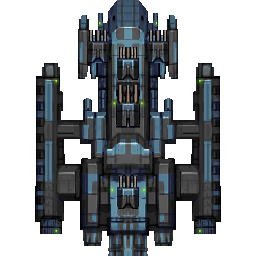
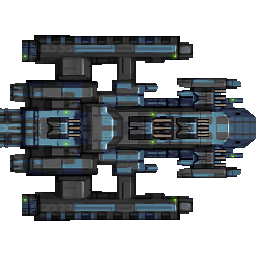
Rotated ship sprites and did more work on the Sprite component

diff --git a/SFMLSpaceGame/InitialGameState.cpp b/SFMLSpaceGame/InitialGameState.cpp
@@ -12,6 +12,7 @@
 #include "Background.h"
 #include "ParallaxMovement.h"
 #include "SmoothCameraFollow.h"
+#include "Sprite.h"
 #include "resource.h"
 
 void InitialGameState::Init()
@@ -20,7 +21,8 @@ void InitialGameState::Init()
 
 	auto pos = ent->AddComponent<Position>();
 	ent->AddComponent<Rotation>();
-	auto rp = ent->AddComponent<RectPrimitive, float, float>(100.f, 50.f);
+	auto sp = ent->AddComponent<Sprite, ResourceID>(SHIP_HUMAN_FIGHTER);
+	//auto rp = ent->AddComponent<RectPrimitive, float, float>(100.f, 50.f);
 	auto phys = ent->AddComponent<Physics, b2BodyType, float>(b2_dynamicBody, 1.f);
 	ent->AddComponent<DirectionalKeyboardInput>();
 	ent->AddComponent<ShipThrusters, ShipThrust, ShipThrust>(ShipThrust(.01f, .001f, .005f), ShipThrust(5.f, 3.f, 3.f));
@@ -28,13 +30,15 @@ void InitialGameState::Init()
 	ent->AddComponent<RotateToFaceMouse, float, float>(.1f, 2.f);
 	ent->AddComponent<SmoothCameraFollow>();
 
-	phys.AddShape(rp.GetShape());
+	auto spriteBox = sp.GetPixelLocalBounds();
+	sf::RectangleShape shape = sf::RectangleShape(sf::Vector2f(spriteBox.width, spriteBox.height));
+	phys.AddShape(shape, .2f);
 	phys.SetPosition(b2Vec2(5, 5));
 
 	auto bg = m_entityManager.AddEntity(m_world, Group(0));
 
 	bg->AddComponent<Position>();
-	bg->AddComponent<Background, int>(BGONE_FRONT);
+	bg->AddComponent<Background, ResourceID>(BGONE_FRONT);
 	bg->AddComponent<ParallaxMovement, Entity&, float>(*ent, .1f);
 }
 

diff --git a/SFMLSpaceGame/Sprite.cpp b/SFMLSpaceGame/Sprite.cpp
@@ -8,6 +8,8 @@ void Sprite::Init()
 	m_rotation = &entity->GetComponent<Rotation>();
 	m_tex = LoadTextureResource(m_resourceID);
 	m_sprite = sf::Sprite(*m_tex.get());
+
+	m_sprite.setOrigin(sf::Vector2f(m_sprite.getLocalBounds().width / 2.f, m_sprite.getLocalBounds().height / 2.f));
 }
 
 void Sprite::Update()
@@ -22,3 +24,11 @@ void Sprite::Render(sf::RenderTarget& target)
 	target.draw(m_sprite);
 }
 
+sf::IntRect Sprite::GetPixelLocalBounds() const
+{
+	auto bounds = m_sprite.getLocalBounds();
+	bounds.width *= m_sprite.getScale().x;
+	bounds.height *= m_sprite.getScale().y;
+
+	return sf::IntRect(bounds.left, bounds.top, bounds.width, bounds.height);
+}

diff --git a/SFMLSpaceGame/Sprite.h b/SFMLSpaceGame/Sprite.h
@@ -21,4 +21,6 @@ public:
 	virtual void Init() override;
 	virtual void Update() override;
 	virtual void Render(sf::RenderTarget& target) override;
+
+	virtual sf::IntRect GetPixelLocalBounds() const;
 };
